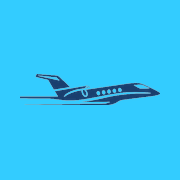
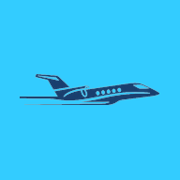
Optimize iPhone Add to Home Screen / standalone PWA
Wire apple-touch-startup-image splashes, correct homescreen icon and
maskable icon, and harden the app shell for notched iPhones: safe-area
padding on the top nav and login, 100dvh viewport sizing, larger bottom
tab targets, toast clearance above the nav, and a clearer install banner.

diff --git a/src/App.jsx b/src/App.jsx
@@ -15386,10 +15386,8 @@ function LoginScreen({ initialMode = 'login' }) {
   };
 
   return (
-    <div className="min-h-screen bg-slate-950 flex items-center justify-center p-6">
+    <div className="min-h-screen bg-slate-950 flex items-center justify-center p-6 sw-safe-inset overflow-y-auto">
       <style>{`
-        @import url('https://fonts.googleapis.com/css2?family=Bebas+Neue&family=DM+Sans:wght@400;500;600;700&family=JetBrains+Mono:wght@400;500;600;700&display=swap');
-        body { font-family: 'DM Sans', sans-serif; }
         .grid-bg-login {
           background-image:
             linear-gradient(rgba(148, 163, 184, 0.04) 1px, transparent 1px),
@@ -21003,7 +21001,7 @@ function TopNav({ currentSection, setCurrentSection, currentUser, onLogout, sync
   const groupUnread = (groupId) => (groupId === 'comms' ? commsUnread : 0);
 
   return (
-    <header className="border-b border-slate-800 bg-slate-950/80 backdrop-blur sticky top-0 z-30">
+    <header className="border-b border-slate-800 bg-slate-950/80 backdrop-blur sticky top-0 z-30 sw-safe-top">
       <div className="px-4 md:px-6 py-3 flex items-center justify-between gap-3">
         <div className="flex items-center gap-3 min-w-0">
           <div className="min-w-0">
@@ -21231,7 +21229,7 @@ function MobileNav({ currentSection, setCurrentSection, currentUser, onOpenSetti
                 onClick={() => go(g.children[0].id)}
                 aria-current={active ? 'page' : undefined}
                 className={cx(
-                  'relative flex flex-1 flex-col items-center justify-center gap-1 py-2 transition-colors',
+                  'sw-mobile-tab relative flex flex-1 flex-col items-center justify-center gap-1 py-2.5 transition-colors',
                   active ? 'text-accent' : 'text-content-subtle',
                 )}
               >
@@ -21250,7 +21248,7 @@ function MobileNav({ currentSection, setCurrentSection, currentUser, onOpenSetti
               aria-haspopup="dialog"
               aria-expanded={sheetOpen}
               className={cx(
-                'flex flex-1 flex-col items-center justify-center gap-1 py-2 transition-colors',
+                'sw-mobile-tab flex flex-1 flex-col items-center justify-center gap-1 py-2.5 transition-colors',
                 overflowActive ? 'text-accent' : 'text-content-subtle',
               )}
             >
@@ -26737,9 +26735,18 @@ function IosInstallBanner() {
 
   useEffect(() => {
     if (typeof window === 'undefined' || typeof navigator === 'undefined') return;
-    // Bail if previously dismissed
+    // Soft dismiss — re-prompt after 14 days so first-time users who
+    // accidentally dismissed still discover Add to Home Screen.
     try {
-      if (localStorage.getItem('skyway_pwa_banner_dismissed') === '1') return;
+      const until = Number(localStorage.getItem('skyway_pwa_banner_dismissed_until') || 0);
+      if (until && Date.now() < until) return;
+      // Migrate legacy permanent dismiss key into a soft window.
+      if (localStorage.getItem('skyway_pwa_banner_dismissed') === '1') {
+        const next = Date.now() + 14 * 24 * 60 * 60 * 1000;
+        localStorage.setItem('skyway_pwa_banner_dismissed_until', String(next));
+        localStorage.removeItem('skyway_pwa_banner_dismissed');
+        return;
+      }
     } catch (_) {}
     // Bail if already installed (standalone mode)
     const isStandalone = (
@@ -26764,37 +26771,50 @@ function IosInstallBanner() {
 
   function dismiss() {
     setShow(false);
-    try { localStorage.setItem('skyway_pwa_banner_dismissed', '1'); } catch (_) {}
+    try {
+      localStorage.setItem(
+        'skyway_pwa_banner_dismissed_until',
+        String(Date.now() + 14 * 24 * 60 * 60 * 1000),
+      );
+      localStorage.removeItem('skyway_pwa_banner_dismissed');
+    } catch (_) {}
   }
 
   if (!show) return null;
 
   return (
-    <div className="bg-cyan-500/20 border-b border-cyan-500/40 px-4 py-2.5 flex items-center gap-3">
+    <div className="border-b border-accent-border bg-accent-soft px-4 py-3 flex items-start gap-3">
+      <img
+        src="/apple-touch-icon.png"
+        alt=""
+        width={40}
+        height={40}
+        className="mt-0.5 h-10 w-10 shrink-0 rounded-[9px] border border-edge"
+      />
       <div className="flex-1 min-w-0">
-        <div className="text-[11px] tracking-widest text-cyan-200" style={{ fontFamily: 'JetBrains Mono, monospace', fontWeight: 600 }}>
-          INSTALL SKYWAY
+        <div className="text-[11px] font-semibold tracking-widest text-accent" style={{ fontFamily: 'JetBrains Mono, monospace' }}>
+          ADD TO HOME SCREEN
         </div>
-        <div className="text-xs text-slate-200 mt-0.5" style={{ fontFamily: 'DM Sans, sans-serif' }}>
-          Tap{' '}
-          <span className="inline-flex items-center align-middle">
-            {/* iOS Share icon — rough svg approximation */}
-            <svg viewBox="0 0 24 24" className="w-4 h-4 inline mx-1 text-cyan-300" fill="none" stroke="currentColor" strokeWidth="2" strokeLinecap="round" strokeLinejoin="round" aria-hidden="true">
+        <div className="text-xs text-content mt-1 leading-relaxed">
+          For the full app experience (fullscreen, push alerts), tap{' '}
+          <span className="inline-flex items-center align-middle text-accent" aria-hidden="true">
+            <svg viewBox="0 0 24 24" className="w-4 h-4 inline mx-0.5" fill="none" stroke="currentColor" strokeWidth="2" strokeLinecap="round" strokeLinejoin="round">
               <path d="M4 12v7a2 2 0 0 0 2 2h12a2 2 0 0 0 2-2v-7" />
               <polyline points="16 6 12 2 8 6" />
               <line x1="12" y1="2" x2="12" y2="15" />
             </svg>
           </span>
-          {' '}then "Add to Home Screen" to install.
+          {' '}Share, then <span className="font-semibold text-content">Add to Home Screen</span>.
         </div>
       </div>
       <button
+        type="button"
         onClick={dismiss}
-        className="text-xs text-slate-400 hover:text-slate-200 tracking-widest px-2 py-1"
+        className="shrink-0 rounded px-2 py-2 text-[10px] tracking-widest text-content-muted hover:text-content"
         style={{ fontFamily: 'JetBrains Mono, monospace' }}
         aria-label="Dismiss install banner"
       >
-        DISMISS
+        LATER
       </button>
     </div>
   );
@@ -26833,6 +26853,12 @@ export default function CharterOps() {
     if (typeof document === 'undefined') return;
     document.documentElement.setAttribute('data-theme', themeMode);
     try { localStorage.setItem('skyway-theme', themeMode); } catch (_) {}
+    // Keep iOS status-bar / theme-color in sync with the active palette so
+    // the homescreen chrome doesn't flash the wrong color on theme toggle.
+    const color = themeMode === 'classy' ? '#E8EFF8' : '#060C16';
+    document.querySelectorAll('meta[name="theme-color"]').forEach((m) => {
+      m.setAttribute('content', color);
+    });
   }, [themeMode]);
   const [syncStatus, setSyncStatus] = useState({ status: 'idle', message: '' });
   const [syncLog, setSyncLog] = useState([]);
@@ -27751,7 +27777,7 @@ export default function CharterOps() {
   // === Authenticated app ===
   return (
     <ToastProvider>
-    <div className="h-screen w-full bg-slate-950 text-slate-100 antialiased overflow-hidden">
+    <div className="sw-app-shell bg-slate-950 text-slate-100 antialiased">
       <style>{`
         .grid-bg {
           background-image:
@@ -27773,7 +27799,7 @@ export default function CharterOps() {
           }
         }}
       >
-      <div className="grid-bg h-full flex flex-col">
+      <div className="grid-bg h-full min-h-0 flex flex-col">
         {/* iOS install banner — dismissible, shown only on iOS Safari
             when the app isn't already installed. Surfaces the Share →
             Add to Home Screen flow because iOS Safari has no built-in

diff --git a/index.html b/index.html
@@ -2,15 +2,53 @@
 <html lang="en">
   <head>
     <meta charset="UTF-8" />
-    <meta name="viewport" content="width=device-width, initial-scale=1.0, viewport-fit=cover" />
+    <!-- viewport-fit=cover is required for env(safe-area-inset-*) on notched iPhones. -->
+    <meta name="viewport" content="width=device-width, initial-scale=1.0, viewport-fit=cover, maximum-scale=1, user-scalable=no" />
+    <meta name="theme-color" content="#060C16" media="(prefers-color-scheme: dark)" />
     <meta name="theme-color" content="#060C16" />
+    <meta name="color-scheme" content="dark light" />
+    <meta name="format-detection" content="telephone=no" />
     <meta name="mobile-web-app-capable" content="yes" />
     <meta name="apple-mobile-web-app-capable" content="yes" />
+    <!-- black-translucent lets the app paint edge-to-edge under the status bar;
+         TopNav / login pad with env(safe-area-inset-top). -->
     <meta name="apple-mobile-web-app-status-bar-style" content="black-translucent" />
     <meta name="apple-mobile-web-app-title" content="Skyway" />
-    <link rel="icon" type="image/svg+xml" href="/icon.svg" />
-    <link rel="apple-touch-icon" href="/icon-192.png" />
+    <meta name="application-name" content="Skyway" />
+    <meta name="description" content="Skyway Aviation Part 135 charter operations console" />
+
+    <link rel="icon" type="image/png" sizes="32x32" href="/favicon.png" />
+    <link rel="icon" type="image/png" sizes="192x192" href="/icon-192.png" />
+    <!-- iOS homescreen icon — must be 180×180 without transparency for best results. -->
+    <link rel="apple-touch-icon" href="/apple-touch-icon.png" />
+    <link rel="apple-touch-icon" sizes="180x180" href="/apple-touch-icon.png" />
     <link rel="manifest" href="/manifest.json" />
+
+    <!-- iOS launch images (Add to Home Screen). Media queries match device
+         CSS pixel sizes × device-pixel-ratio. Generated from brand splash. -->
+    <link rel="apple-touch-startup-image" href="/splashes/splash-1320x2868.png"
+      media="(device-width: 440px) and (device-height: 956px) and (-webkit-device-pixel-ratio: 3)" />
+    <link rel="apple-touch-startup-image" href="/splashes/splash-1290x2796.png"
+      media="(device-width: 430px) and (device-height: 932px) and (-webkit-device-pixel-ratio: 3)" />
+    <link rel="apple-touch-startup-image" href="/splashes/splash-1206x2622.png"
+      media="(device-width: 402px) and (device-height: 874px) and (-webkit-device-pixel-ratio: 3)" />
+    <link rel="apple-touch-startup-image" href="/splashes/splash-1179x2556.png"
+      media="(device-width: 393px) and (device-height: 852px) and (-webkit-device-pixel-ratio: 3)" />
+    <link rel="apple-touch-startup-image" href="/splashes/splash-1284x2778.png"
+      media="(device-width: 428px) and (device-height: 926px) and (-webkit-device-pixel-ratio: 3)" />
+    <link rel="apple-touch-startup-image" href="/splashes/splash-1170x2532.png"
+      media="(device-width: 390px) and (device-height: 844px) and (-webkit-device-pixel-ratio: 3)" />
+    <link rel="apple-touch-startup-image" href="/splashes/splash-1125x2436.png"
+      media="(device-width: 375px) and (device-height: 812px) and (-webkit-device-pixel-ratio: 3)" />
+    <link rel="apple-touch-startup-image" href="/splashes/splash-1242x2688.png"
+      media="(device-width: 414px) and (device-height: 896px) and (-webkit-device-pixel-ratio: 3)" />
+    <link rel="apple-touch-startup-image" href="/splashes/splash-828x1792.png"
+      media="(device-width: 414px) and (device-height: 896px) and (-webkit-device-pixel-ratio: 2)" />
+    <link rel="apple-touch-startup-image" href="/splashes/splash-1242x2208.png"
+      media="(device-width: 414px) and (device-height: 736px) and (-webkit-device-pixel-ratio: 3)" />
+    <link rel="apple-touch-startup-image" href="/splashes/splash-750x1334.png"
+      media="(device-width: 375px) and (device-height: 667px) and (-webkit-device-pixel-ratio: 2)" />
+
     <title>Skyway Aviation Ops</title>
     <!-- Fonts are loaded here only. Preconnecting saves a round trip versus
          discovering the Google Fonts origin from an @import inside CSS. -->
@@ -27,17 +65,25 @@
           var t = localStorage.getItem('skyway-theme');
           if (t === 'classy') document.documentElement.setAttribute('data-theme', 'classy');
         } catch(e) {}
+        // Mark standalone / homescreen launches early so CSS can adapt before React.
+        try {
+          var standalone = (window.navigator.standalone === true) ||
+            (window.matchMedia && window.matchMedia('(display-mode: standalone)').matches);
+          if (standalone) document.documentElement.setAttribute('data-standalone', '1');
+        } catch(e) {}
       })();
     </script>
   </head>
   <body>
     <div id="root">
-      <!-- Loading splash — shown before React mounts. Inline styles only. -->
+      <!-- Loading splash — shown before React mounts. Inline styles only.
+           Mirrors the iOS apple-touch-startup-image so the handoff feels continuous. -->
       <div style="
         position: fixed; inset: 0;
         background: #060C16;
         display: flex; align-items: center; justify-content: center;
         flex-direction: column; gap: 28px;
+        padding: env(safe-area-inset-top) env(safe-area-inset-right) env(safe-area-inset-bottom) env(safe-area-inset-left);
       ">
         <img src="/skyway-logo.png" alt="Skyway Aviation"
           style="max-width: 240px; width: 55vw; height: auto; opacity: 0.95;" />

diff --git a/src/index.css b/src/index.css
@@ -59,8 +59,9 @@
   --sw-shadow-raised: 0 4px 14px rgba(0, 0, 0, 0.34);
   --sw-shadow-overlay: 0 18px 48px rgba(0, 0, 0, 0.52);
 
-  /* Chrome height, used to offset the mobile bottom nav. */
-  --sw-bottom-nav-h: 58px;
+  /* Chrome height, used to offset toasts above the mobile bottom nav.
+     Keep in sync with MobileNav tab padding (py-2.5 + icon + label). */
+  --sw-bottom-nav-h: 62px;
 }
 
 /* Light theme. Same variable names, so every token-based component follows
@@ -141,18 +142,42 @@ html, body, #root {
   font-family: 'DM Sans', system-ui, sans-serif;
   -webkit-font-smoothing: antialiased;
   -moz-osx-font-smoothing: grayscale;
+  -webkit-text-size-adjust: 100%;
+  text-size-adjust: 100%;
   overscroll-behavior: none;
 }
 
 body {
+  /* Fill the visual viewport on iOS (Safari + homescreen standalone).
+     position:fixed + inset:0 beats 100vh, which still mis-measures under
+     the iOS URL bar and dynamic island in several WebKit versions. */
   position: fixed;
   inset: 0;
+  width: 100%;
+  height: 100%;
+  height: 100dvh;
   overflow: hidden;
+  /* Kill the gray tap flash on iOS. */
+  -webkit-tap-highlight-color: transparent;
 }
 
 #root {
+  height: 100%;
+  /* Auth / public portals (AOG, track links) scroll here. The authenticated
+     app shell uses overflow:hidden + inner flex scroll regions instead. */
   overflow-y: auto;
   -webkit-overflow-scrolling: touch;
+}
+html[data-standalone='1'] #root {
+  /* Homescreen launches always mount the app shell — lock outer scroll so
+     iOS rubber-banding doesn't flash the body color behind chrome. */
+  overflow: hidden;
+}
+
+/* Prefer dynamic viewport units for full-height shells when available. */
+@supports (height: 100dvh) {
+  .h-screen { height: 100dvh; }
+  .min-h-screen { min-height: 100dvh; }
 }
 
 /* ─── SCROLLBAR ──────────────────────────────────────────────────────────────
@@ -197,11 +222,46 @@ button:focus:not(:focus-visible),
 a:focus:not(:focus-visible) { outline: none; }
 
 /* ─── SAFE AREA ──────────────────────────────────────────────────────────────
-   Installed PWAs on iOS need the home-indicator inset respected by the
-   bottom nav and by any full-height scroll region sitting above it.
+   Installed PWAs on iOS (Add to Home Screen) need notch / Dynamic Island /
+   home-indicator insets respected. black-translucent status bar paints
+   under the system chrome, so the top shell must pad explicitly.
    ─────────────────────────────────────────────────────────────────────────── */
+.sw-safe-top { padding-top: env(safe-area-inset-top, 0px); }
 .sw-safe-bottom { padding-bottom: env(safe-area-inset-bottom, 0px); }
-.sw-bottom-nav-offset { padding-bottom: calc(var(--sw-bottom-nav-h) + env(safe-area-inset-bottom, 0px)); }
+.sw-safe-x {
+  padding-left: env(safe-area-inset-left, 0px);
+  padding-right: env(safe-area-inset-right, 0px);
+}
+.sw-safe-inset {
+  padding-top: env(safe-area-inset-top, 0px);
+  padding-right: env(safe-area-inset-right, 0px);
+  padding-bottom: env(safe-area-inset-bottom, 0px);
+  padding-left: env(safe-area-inset-left, 0px);
+}
+.sw-bottom-nav-offset {
+  padding-bottom: calc(var(--sw-bottom-nav-h) + env(safe-area-inset-bottom, 0px));
+}
+
+/* App chrome shell — fills the fixed body and owns its own scroll regions. */
+.sw-app-shell {
+  height: 100%;
+  width: 100%;
+  display: flex;
+  flex-direction: column;
+  overflow: hidden;
+  padding-left: env(safe-area-inset-left, 0px);
+  padding-right: env(safe-area-inset-right, 0px);
+}
+
+/* Standalone homescreen polish: slightly taller bottom nav hit targets,
+   and keep the status-bar region painted with the shell color. */
+html[data-standalone='1'] {
+  /* Prevent rubber-band revealing white behind the fixed body. */
+  background: var(--sw-bg);
+}
+html[data-standalone='1'] .sw-mobile-tab {
+  min-height: 48px;
+}
 
 @media (prefers-reduced-motion: reduce) {
   *, *::before, *::after {

diff --git a/src/ui.jsx b/src/ui.jsx
@@ -402,7 +402,7 @@ function ToastViewport({ toasts, onDismiss }) {
   if (toasts.length === 0) return null;
   return (
     <div
-      className="pointer-events-none fixed inset-x-0 bottom-0 z-[100] flex flex-col items-center gap-2 px-4 pb-[calc(env(safe-area-inset-bottom,0px)+16px)] sm:items-end sm:px-6"
+      className="pointer-events-none fixed inset-x-0 bottom-0 z-[100] flex flex-col items-center gap-2 px-4 pb-[calc(env(safe-area-inset-bottom,0px)+16px)] max-md:pb-[calc(var(--sw-bottom-nav-h)+env(safe-area-inset-bottom,0px)+12px)] sm:items-end sm:px-6"
       role="region"
       aria-label="Notifications"
     >
